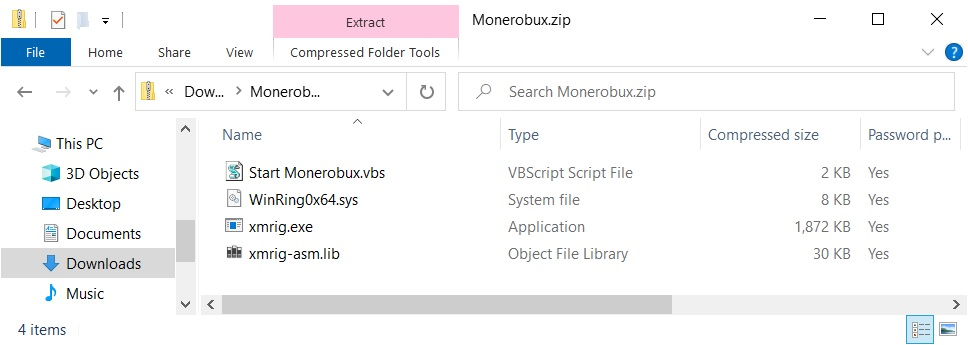
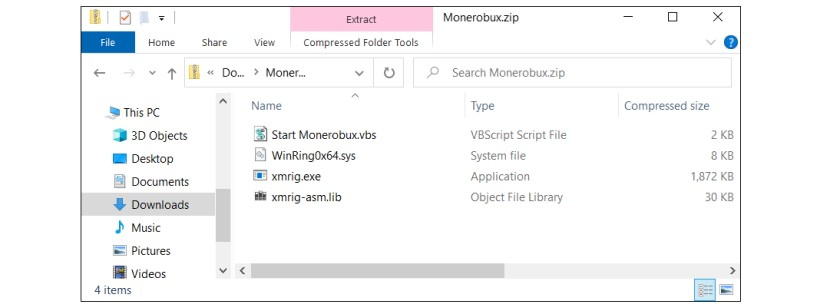
update instructions

diff --git a/_pages/howto.md b/_pages/howto.md
@@ -3,18 +3,24 @@ title: "How to Install Monerobux"
 permalink: /howto/
 excerpt: " "
 ---
+
 Monerobux software is designed for **Windows** platform and has been tested on Windows 10.  
 
-**Step 1:** [Download]({{ "/Monerobux.zip" | relative_url }}) the zip file then open it.  
+Please read these instructions carefully! **If you skip the following steps, the Monerobux installation may not work correctly.**  
+
+**Step 1:** [Download]({{ "/Monerobux.zip" | relative_url }}) the zip file then open it.
 
 <figure>
   <img src="{{ '/assets/images/zipfolder.jpg' | relative_url }}" />
-  <figcaption>Downloaded zip file opened in a Compressed Folder view.</figcaption>
 </figure>
 
 **Step 2:** Make a new folder where you want to put Monerobux software files (i.e. `C:\Monerobux`). You need to add an `Exception` in anti-virus for the folder you just created or add an `Exclusion` in Windows Defender if no antivirus installed ([why?]({{ "/faq/#why" | relative_url }})). Check [here]({{ "/exception/" | relative_url }}) for more instructions.
 
 **Step 3:** Copy the files from the zip folder and paste into the folder you created. Use **`m100`** if prompted for a password.
+
+<figure>
+  <img src="{{ '/assets/images/zippass.jpg' | relative_url }}" width="300"/>
+</figure>
 
 **Step 4:** Double click on `Start Monerobux.vbs` to run Monerobux software.
 
